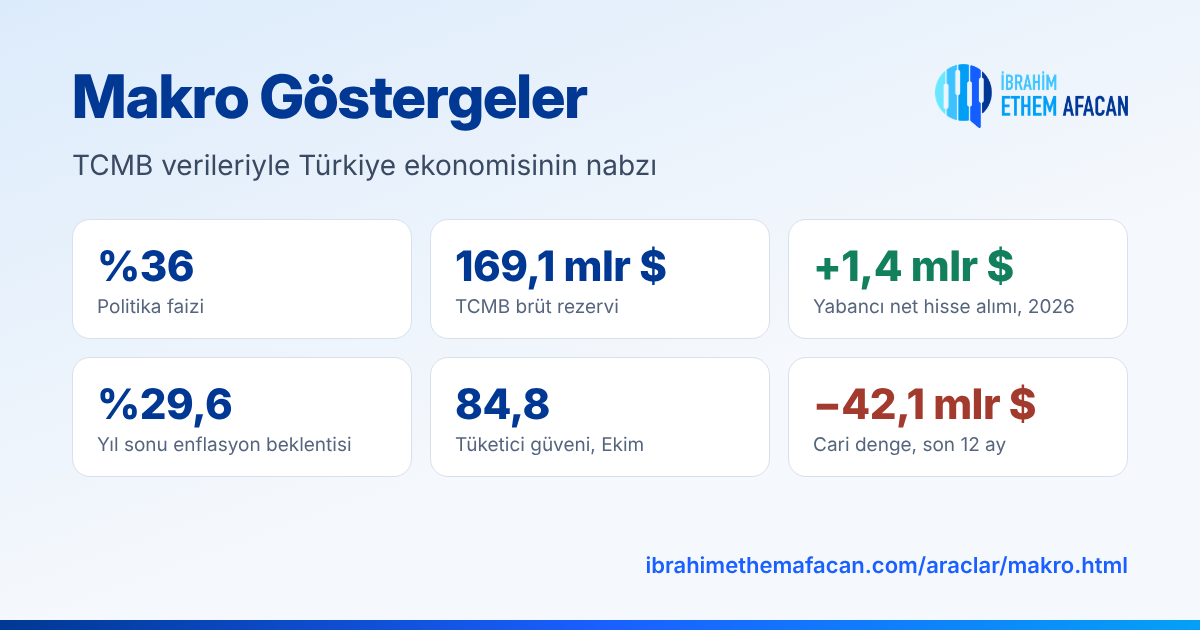
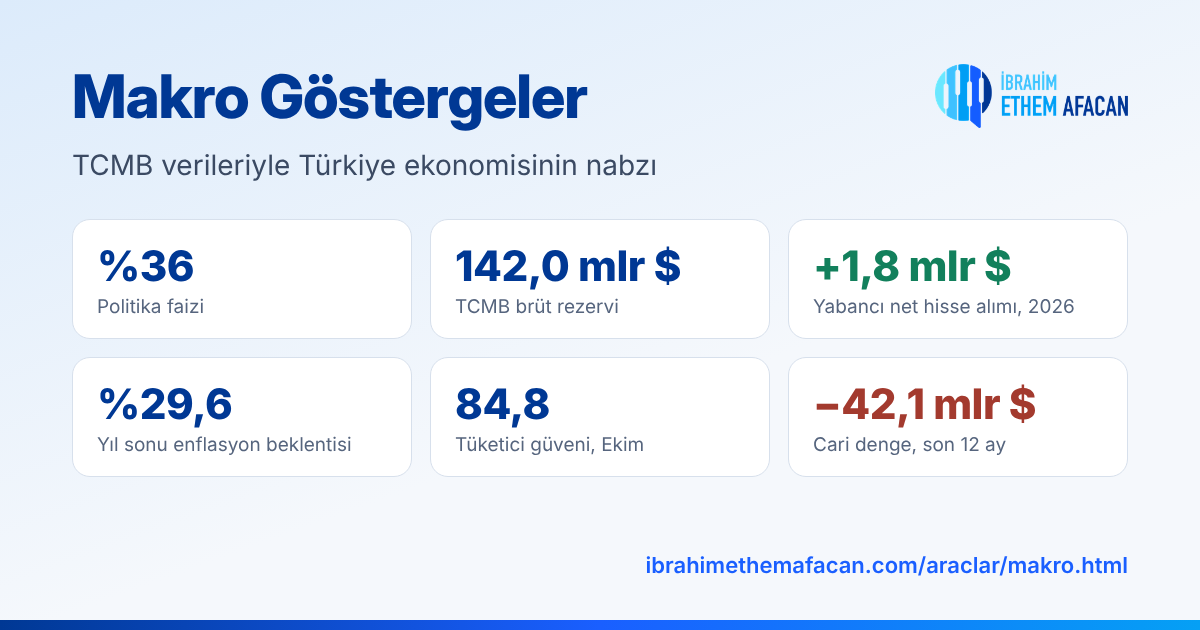
Makro: net ve swap hariç net rezerv 20 Kasım haftası (Bloomberg HT); paylaşım görseli
Claude-Session: https://claude.ai/code/session_013mrGbpFadh1h9epcSoKPzq

Changed region(s): [[0.4008, 0.3921, 0.5858, 0.4524], [0.7092, 0.3921, 0.8633, 0.4524]]

diff --git a/araclar/makro.html b/araclar/makro.html
@@ -285,7 +285,7 @@
   </footer>
 
   <script>
-    var D = {"wk":[{"d":"20-11-2026","h":-48.37,"b":-463.07,"t":-916.95},{"d":"13-11-2026","h":246.75,"b":97.58,"t":4.54},{"d":"06-11-2026","h":367.18,"b":36.93,"t":268.72},{"d":"30-10-2026","h":-66.27,"b":-750.39,"t":-1005.45},{"d":"23-10-2026","h":-99.98,"b":-183.76,"t":-908.77},{"d":"16-10-2026","h":-88.75,"b":-44.36,"t":-584.52},{"d":"09-10-2026","h":-248.2,"b":451.12,"t":-865.14},{"d":"02-10-2026","h":-189.9,"b":-484.73,"t":91.5},{"d":"25-09-2026","h":358.63,"b":-409.93,"t":-512.25},{"d":"18-09-2026","h":-109.83,"b":-113.62,"t":-312.73},{"d":"11-09-2026","h":277.67,"b":151.15,"t":393.81},{"d":"04-09-2026","h":-647.63,"b":156.72,"t":-510.83}],"yf":[{"y":"2021","h":-1364.13,"b":973.43,"t":-6685.8},{"y":"2022","h":-4035.61,"b":-2161.66,"t":-17551.66},{"y":"2023","h":1389.01,"b":2003.82,"t":7533.04},{"y":"2024","h":-2696.1,"b":16087.7,"t":21474.02},{"y":"2025","h":2267.69,"b":2865.39,"t":12144.74},{"y":"2026*","h":1808.65,"b":471.17,"t":12364.03}],"para":[{"y":"2018","tf":20.3,"rf":3.1,"pf":24,"m3":18.6,"kr":12.3,"m3v":1.99,"krv":2.25,"res":91.9},{"y":"2019","tf":11.8,"rf":0.1,"pf":12,"m3":29.5,"kr":10.8,"m3v":2.58,"krv":2.5,"res":106.3},{"y":"2020","tf":14.6,"rf":2.1,"pf":17,"m3":34.7,"kr":35.6,"m3v":3.47,"krv":3.38,"res":94.6},{"y":"2021","tf":36.1,"rf":-16.2,"pf":14,"m3":48.9,"kr":35.4,"m3v":5.17,"krv":4.58,"res":111.1},{"y":"2022","tf":64.3,"rf":-33.6,"pf":9,"m3":64.1,"kr":55.9,"m3v":8.48,"krv":7.14,"res":128.8},{"y":"2023","tf":64.8,"rf":-13.5,"pf":42.5,"m3":65.3,"kr":54.7,"m3v":14.02,"krv":11.05,"res":141.1},{"y":"2024","tf":44.4,"rf":2.2,"pf":47.5,"m3":38.1,"kr":38.8,"m3v":19.36,"krv":15.34,"res":155.1},{"y":"2025","tf":30.9,"rf":5.4,"pf":38,"m3":40.3,"kr":44.6,"m3v":27.17,"krv":22.18,"res":193.9},{"y":"2026*","tf":29.7,"rf":4.8,"pf":36,"m3":27.1,"kr":36.7,"m3v":32.97,"krv":27.02,"res":142.0}],"m3yoy":27.1,"kryoy":36.7,"pka":[{"m":"2025-10","ye":31.77,"t12":23.26,"ny":22.13,"pfye":37.66,"pf12":28.26,"usdye":43.56,"usd12":49.75},{"m":"2025-11","ye":32.2,"t12":23.49,"ny":23.21,"pfye":38.28,"pf12":29.32,"usdye":43.42,"usd12":50.62},{"m":"2025-12","ye":31.17,"t12":23.35,"ny":23.35,"pfye":38.21,"pf12":28.15,"usdye":43.06,"usd12":51.08},{"m":"2026-1","ye":23.23,"t12":22.2,"ny":17.75,"pfye":28.02,"pf12":26.96,"usdye":51.17,"usd12":51.89},{"m":"2026-2","ye":24.11,"t12":22.1,"ny":18.4,"pfye":28.95,"pf12":27.67,"usdye":51.09,"usd12":52.39},{"m":"2026-3","ye":25.38,"t12":22.17,"ny":18.71,"pfye":30.63,"pf12":28.48,"usdye":50.97,"usd12":52.7},{"m":"2026-4","ye":27.53,"t12":23.39,"ny":20.13,"pfye":32.94,"pf12":29.56,"usdye":51.23,"usd12":53.62},{"m":"2026-5","ye":28.94,"t12":23.82,"ny":21.07,"pfye":33.96,"pf12":30.22,"usdye":51.57,"usd12":54.69},{"m":"2026-6","ye":29.14,"t12":23.81,"ny":21.39,"pfye":34.72,"pf12":30.14,"usdye":51.47,"usd12":55.72},{"m":"2026-7","ye":29.21,"t12":23.95,"ny":21.47,"pfye":34.7,"pf12":29.44,"usdye":51.55,"usd12":56.69},{"m":"2026-8","ye":29.43,"t12":23.69,"ny":21.94,"pfye":35.25,"pf12":29.59,"usdye":51.66,"usd12":57.43},{"m":"2026-9","ye":29.61,"t12":23.7,"ny":22.69,"pfye":35.07,"pf12":29.22,"usdye":51.57,"usd12":58.6},{"m":"2026-10","ye":29.63,"t12":23.89,"ny":23.33,"pfye":35.0,"pf12":29.01,"usdye":51.55,"usd12":59.26}],"guven":{"m":[{"m":"2025-10","t":83.6,"r":102.0},{"m":"2025-11","t":85.0,"r":103.2},{"m":"2025-12","t":83.5,"r":103.7},{"m":"2026-1","t":83.7,"r":103.0},{"m":"2026-2","t":85.7,"r":104.1},{"m":"2026-3","t":85.0,"r":100.0},{"m":"2026-4","t":85.5,"r":98.6},{"m":"2026-5","t":85.8,"r":101.0},{"m":"2026-6","t":87.9,"r":102.0},{"m":"2026-7","t":89.8,"r":101.2},{"m":"2026-8","t":90.8,"r":102.4},{"m":"2026-9","t":91.9,"r":102.5},{"m":"2026-10","t":84.8,"r":101.1}],"y":[{"y":"2018","t":87.76,"r":101.75},{"y":"2019","t":79.74,"r":100.26},{"y":"2020","t":80.94,"r":97.93},{"y":"2021","t":78.95,"r":110.27},{"y":"2022","t":71.4,"r":104.86},{"y":"2023","t":79.38,"r":104.42},{"y":"2024","t":79.2,"r":101.58},{"y":"2025","t":83.86,"r":101.3},{"y":"2026*","t":87.1,"r":101.59}]},"cari":{"y":[{"y":"2018","v":-14.6},{"y":"2019","v":15.0},{"y":"2020","v":-31.0},{"y":"2021","v":-7.1},{"y":"2022","v":-46.7},{"y":"2023","v":-41.8},{"y":"2024","v":-13.6},{"y":"2025","v":-30.3},{"y":"2026*","v":-31.5}],"m":[{"m":"2025-9","v":0.59},{"m":"2025-10","v":0.45},{"m":"2025-11","v":-4.21},{"m":"2025-12","v":-7.43},{"m":"2026-1","v":-6.76},{"m":"2026-2","v":-7.5},{"m":"2026-3","v":-9.75},{"m":"2026-4","v":-5.62},{"m":"2026-5","v":-1.37},{"m":"2026-6","v":-4.47},{"m":"2026-7","v":-0.09},{"m":"2026-8","v":4.05}],"r12":-42.1},"stok":{"h":31735.27,"b":15279.11},"res":{"t":141972.2,"g":91596.0,"d":50376.1},"nres":{"d":"20 Kasım 2026","b":[142.0,159.0],"n":[41.3,41.2],"s":[28.5,28.3],"nd":"13 Kasım 2026"}};
+    var D = {"wk":[{"d":"20-11-2026","h":-48.37,"b":-463.07,"t":-916.95},{"d":"13-11-2026","h":246.75,"b":97.58,"t":4.54},{"d":"06-11-2026","h":367.18,"b":36.93,"t":268.72},{"d":"30-10-2026","h":-66.27,"b":-750.39,"t":-1005.45},{"d":"23-10-2026","h":-99.98,"b":-183.76,"t":-908.77},{"d":"16-10-2026","h":-88.75,"b":-44.36,"t":-584.52},{"d":"09-10-2026","h":-248.2,"b":451.12,"t":-865.14},{"d":"02-10-2026","h":-189.9,"b":-484.73,"t":91.5},{"d":"25-09-2026","h":358.63,"b":-409.93,"t":-512.25},{"d":"18-09-2026","h":-109.83,"b":-113.62,"t":-312.73},{"d":"11-09-2026","h":277.67,"b":151.15,"t":393.81},{"d":"04-09-2026","h":-647.63,"b":156.72,"t":-510.83}],"yf":[{"y":"2021","h":-1364.13,"b":973.43,"t":-6685.8},{"y":"2022","h":-4035.61,"b":-2161.66,"t":-17551.66},{"y":"2023","h":1389.01,"b":2003.82,"t":7533.04},{"y":"2024","h":-2696.1,"b":16087.7,"t":21474.02},{"y":"2025","h":2267.69,"b":2865.39,"t":12144.74},{"y":"2026*","h":1808.65,"b":471.17,"t":12364.03}],"para":[{"y":"2018","tf":20.3,"rf":3.1,"pf":24,"m3":18.6,"kr":12.3,"m3v":1.99,"krv":2.25,"res":91.9},{"y":"2019","tf":11.8,"rf":0.1,"pf":12,"m3":29.5,"kr":10.8,"m3v":2.58,"krv":2.5,"res":106.3},{"y":"2020","tf":14.6,"rf":2.1,"pf":17,"m3":34.7,"kr":35.6,"m3v":3.47,"krv":3.38,"res":94.6},{"y":"2021","tf":36.1,"rf":-16.2,"pf":14,"m3":48.9,"kr":35.4,"m3v":5.17,"krv":4.58,"res":111.1},{"y":"2022","tf":64.3,"rf":-33.6,"pf":9,"m3":64.1,"kr":55.9,"m3v":8.48,"krv":7.14,"res":128.8},{"y":"2023","tf":64.8,"rf":-13.5,"pf":42.5,"m3":65.3,"kr":54.7,"m3v":14.02,"krv":11.05,"res":141.1},{"y":"2024","tf":44.4,"rf":2.2,"pf":47.5,"m3":38.1,"kr":38.8,"m3v":19.36,"krv":15.34,"res":155.1},{"y":"2025","tf":30.9,"rf":5.4,"pf":38,"m3":40.3,"kr":44.6,"m3v":27.17,"krv":22.18,"res":193.9},{"y":"2026*","tf":29.7,"rf":4.8,"pf":36,"m3":27.1,"kr":36.7,"m3v":32.97,"krv":27.02,"res":142.0}],"m3yoy":27.1,"kryoy":36.7,"pka":[{"m":"2025-10","ye":31.77,"t12":23.26,"ny":22.13,"pfye":37.66,"pf12":28.26,"usdye":43.56,"usd12":49.75},{"m":"2025-11","ye":32.2,"t12":23.49,"ny":23.21,"pfye":38.28,"pf12":29.32,"usdye":43.42,"usd12":50.62},{"m":"2025-12","ye":31.17,"t12":23.35,"ny":23.35,"pfye":38.21,"pf12":28.15,"usdye":43.06,"usd12":51.08},{"m":"2026-1","ye":23.23,"t12":22.2,"ny":17.75,"pfye":28.02,"pf12":26.96,"usdye":51.17,"usd12":51.89},{"m":"2026-2","ye":24.11,"t12":22.1,"ny":18.4,"pfye":28.95,"pf12":27.67,"usdye":51.09,"usd12":52.39},{"m":"2026-3","ye":25.38,"t12":22.17,"ny":18.71,"pfye":30.63,"pf12":28.48,"usdye":50.97,"usd12":52.7},{"m":"2026-4","ye":27.53,"t12":23.39,"ny":20.13,"pfye":32.94,"pf12":29.56,"usdye":51.23,"usd12":53.62},{"m":"2026-5","ye":28.94,"t12":23.82,"ny":21.07,"pfye":33.96,"pf12":30.22,"usdye":51.57,"usd12":54.69},{"m":"2026-6","ye":29.14,"t12":23.81,"ny":21.39,"pfye":34.72,"pf12":30.14,"usdye":51.47,"usd12":55.72},{"m":"2026-7","ye":29.21,"t12":23.95,"ny":21.47,"pfye":34.7,"pf12":29.44,"usdye":51.55,"usd12":56.69},{"m":"2026-8","ye":29.43,"t12":23.69,"ny":21.94,"pfye":35.25,"pf12":29.59,"usdye":51.66,"usd12":57.43},{"m":"2026-9","ye":29.61,"t12":23.7,"ny":22.69,"pfye":35.07,"pf12":29.22,"usdye":51.57,"usd12":58.6},{"m":"2026-10","ye":29.63,"t12":23.89,"ny":23.33,"pfye":35.0,"pf12":29.01,"usdye":51.55,"usd12":59.26}],"guven":{"m":[{"m":"2025-10","t":83.6,"r":102.0},{"m":"2025-11","t":85.0,"r":103.2},{"m":"2025-12","t":83.5,"r":103.7},{"m":"2026-1","t":83.7,"r":103.0},{"m":"2026-2","t":85.7,"r":104.1},{"m":"2026-3","t":85.0,"r":100.0},{"m":"2026-4","t":85.5,"r":98.6},{"m":"2026-5","t":85.8,"r":101.0},{"m":"2026-6","t":87.9,"r":102.0},{"m":"2026-7","t":89.8,"r":101.2},{"m":"2026-8","t":90.8,"r":102.4},{"m":"2026-9","t":91.9,"r":102.5},{"m":"2026-10","t":84.8,"r":101.1}],"y":[{"y":"2018","t":87.76,"r":101.75},{"y":"2019","t":79.74,"r":100.26},{"y":"2020","t":80.94,"r":97.93},{"y":"2021","t":78.95,"r":110.27},{"y":"2022","t":71.4,"r":104.86},{"y":"2023","t":79.38,"r":104.42},{"y":"2024","t":79.2,"r":101.58},{"y":"2025","t":83.86,"r":101.3},{"y":"2026*","t":87.1,"r":101.59}]},"cari":{"y":[{"y":"2018","v":-14.6},{"y":"2019","v":15.0},{"y":"2020","v":-31.0},{"y":"2021","v":-7.1},{"y":"2022","v":-46.7},{"y":"2023","v":-41.8},{"y":"2024","v":-13.6},{"y":"2025","v":-30.3},{"y":"2026*","v":-31.5}],"m":[{"m":"2025-9","v":0.59},{"m":"2025-10","v":0.45},{"m":"2025-11","v":-4.21},{"m":"2025-12","v":-7.43},{"m":"2026-1","v":-6.76},{"m":"2026-2","v":-7.5},{"m":"2026-3","v":-9.75},{"m":"2026-4","v":-5.62},{"m":"2026-5","v":-1.37},{"m":"2026-6","v":-4.47},{"m":"2026-7","v":-0.09},{"m":"2026-8","v":4.05}],"r12":-42.1},"stok":{"h":31735.27,"b":15279.11},"res":{"t":141972.2,"g":91596.0,"d":50376.1},"nres":{"d":"20 Kasım 2026","b":[142.0,159.0],"n":[24.2,41.3],"s":[11.6,28.5]}};
     var n0=new Intl.NumberFormat('tr-TR',{maximumFractionDigits:0}), n1=new Intl.NumberFormat('tr-TR',{minimumFractionDigits:1,maximumFractionDigits:1}), n2=new Intl.NumberFormat('tr-TR',{minimumFractionDigits:2,maximumFractionDigits:2});
     var AY=['Ocak','Şubat','Mart','Nisan','Mayıs','Haziran','Temmuz','Ağustos','Eylül','Ekim','Kasım','Aralık'];
     function ay(m){var p=m.split('-');return AY[+p[1]-1]+' '+p[0];}

diff --git a/scripts/og/makro.html b/scripts/og/makro.html
@@ -7,4 +7,4 @@ h1{font-size:60px}
 .pos{color:#12805C!important}.neg{color:#A33A2E!important}
 </style></head><body><div class="wrap">
 <div style="display:flex;align-items:flex-start;justify-content:space-between"><div><h1>Makro Göstergeler</h1><div class="sub">TCMB verileriyle Türkiye ekonomisinin nabzı</div></div><img class="logo" src="logo.png"></div>
-<div class="grid"><div class="k"><b class="">%36</b><span>Politika faizi</span></div><div class="k"><b class="">169,1 mlr $</b><span>TCMB brüt rezervi</span></div><div class="k"><b class="pos">+1,4 mlr $</b><span>Yabancı net hisse alımı, 2026</span></div><div class="k"><b class="">%29,6</b><span>Yıl sonu enflasyon beklentisi</span></div><div class="k"><b class="">84,8</b><span>Tüketici güveni, Ekim</span></div><div class="k"><b class="neg">−42,1 mlr $</b><span>Cari denge, son 12 ay</span></div></div></div><div class="url">ibrahimethemafacan.com/araclar/makro.html</div><div class="bar"></div></body></html>
+<div class="grid"><div class="k"><b class="">%36</b><span>Politika faizi</span></div><div class="k"><b class="">142,0 mlr $</b><span>TCMB brüt rezervi</span></div><div class="k"><b class="pos">+1,8 mlr $</b><span>Yabancı net hisse alımı, 2026</span></div><div class="k"><b class="">%29,6</b><span>Yıl sonu enflasyon beklentisi</span></div><div class="k"><b class="">84,8</b><span>Tüketici güveni, Ekim</span></div><div class="k"><b class="neg">−42,1 mlr $</b><span>Cari denge, son 12 ay</span></div></div></div><div class="url">ibrahimethemafacan.com/araclar/makro.html</div><div class="bar"></div></body></html>
